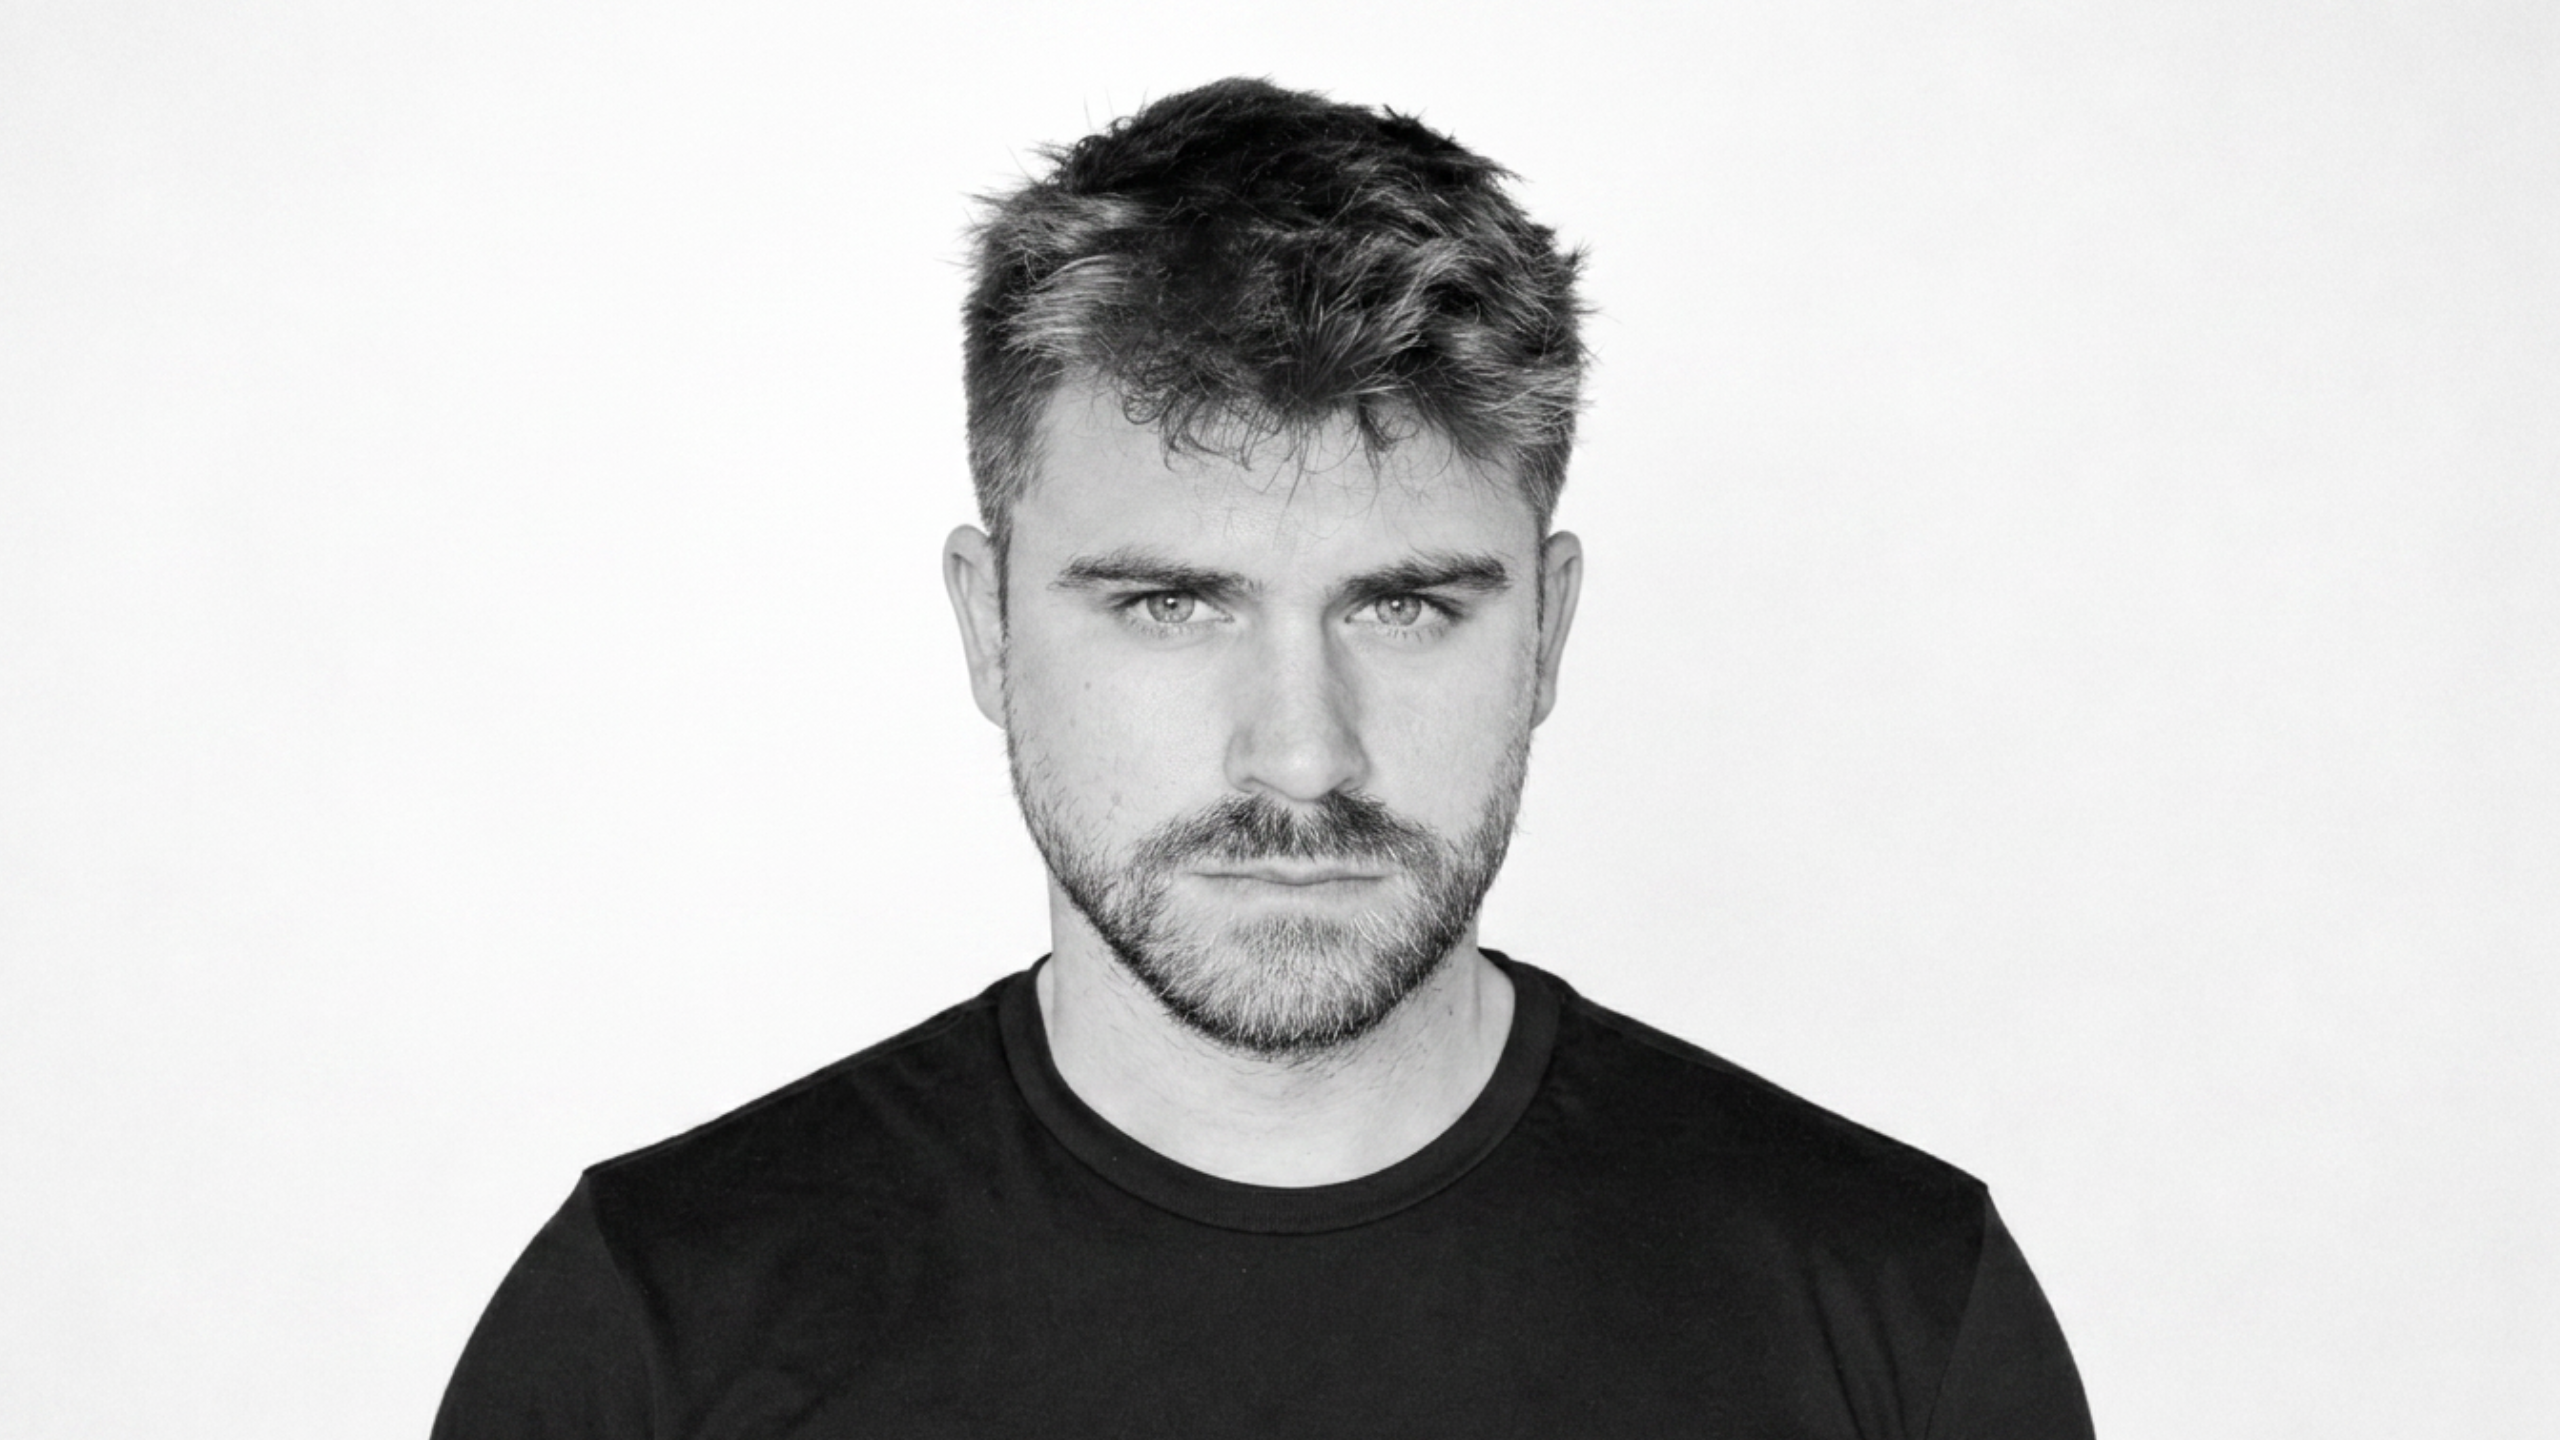
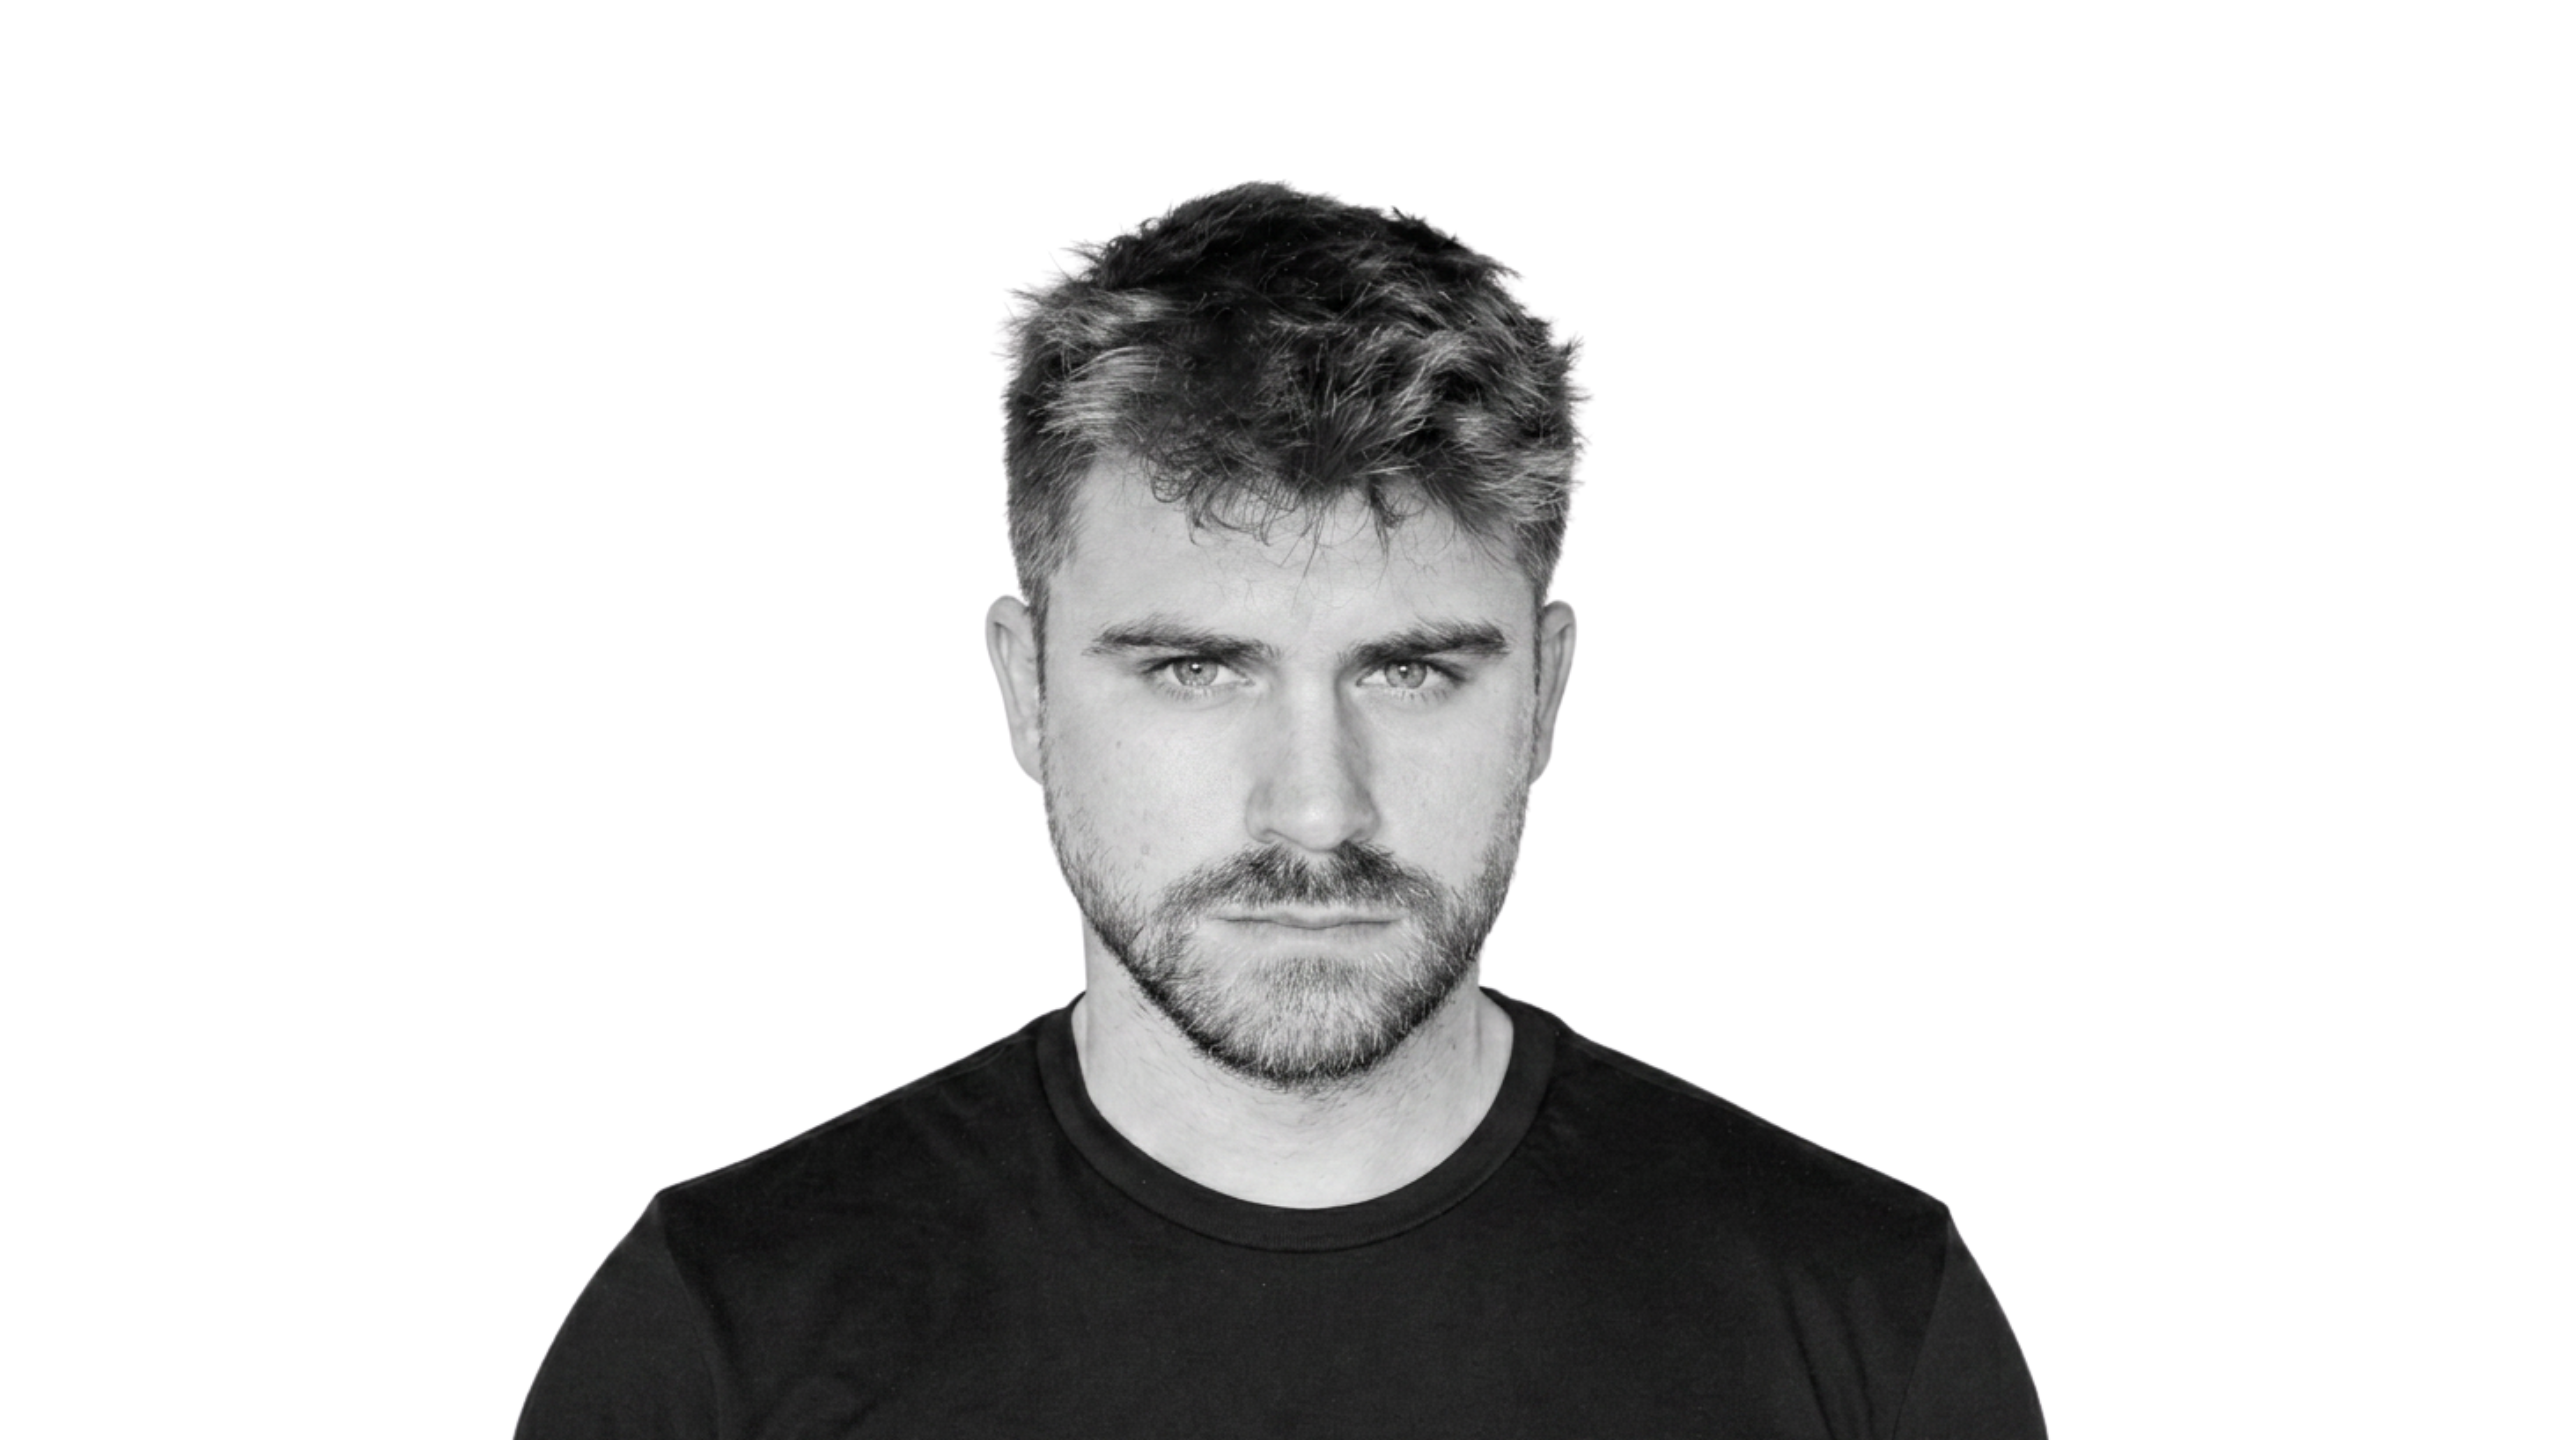
paul-seidel.com

Changed region(s): [[0.1562, 0.0312, 0.8438, 1.0], [0.4375, 0.7812, 0.4688, 0.8125]]

diff --git a/src/main.js b/src/main.js
@@ -45,7 +45,8 @@ const gallery = mountGallery(galleryRoot, {
   onHover:  (id) => (id ? readout.show(id) : readout.hide()),
   onSelect: (id, el) => zoom.open(id, el),
 });
-gallery.freeze(true);                          // Scroll stoppen bis Projects-Panel aktiv ist
+gallery.freeze(true);
+// Scroll stoppen bis Projects-Panel aktiv ist
 
 // Fractal-Glas-Effekt auf den Grid-Bildern (Hover am Desktop, Touch am Handy).
 // Lazy: der WebGL-Kontext entsteht erst beim Beruehren/Hovern eines Bildes und

diff --git a/styles/ui/preloader.css b/styles/ui/preloader.css
@@ -39,9 +39,6 @@
   z-index: 1;
   place-items: center;
   min-height: 1.4em;
-  /* Safe-Area-Abstand jetzt hier (statt auf .preloader), damit die Welle
-     darüber edge-to-edge bleibt. Hält den Text aus Notch/Home-Indicator. */
-
   display: grid;
   position: relative;
 }

diff --git a/styles/base.css b/styles/base.css
@@ -6,7 +6,7 @@
 
 html {
   width: 100%;
-  min-height: 100%;
+  min-height: 100dvh;
   overflow: hidden;
 }
 

diff --git a/styles/layout.css b/styles/layout.css
@@ -179,7 +179,6 @@
   pointer-events: none;
   transform-origin: top;
   will-change: transform, opacity;
-  min-height: 100dvh;
   position: relative;
 }
 